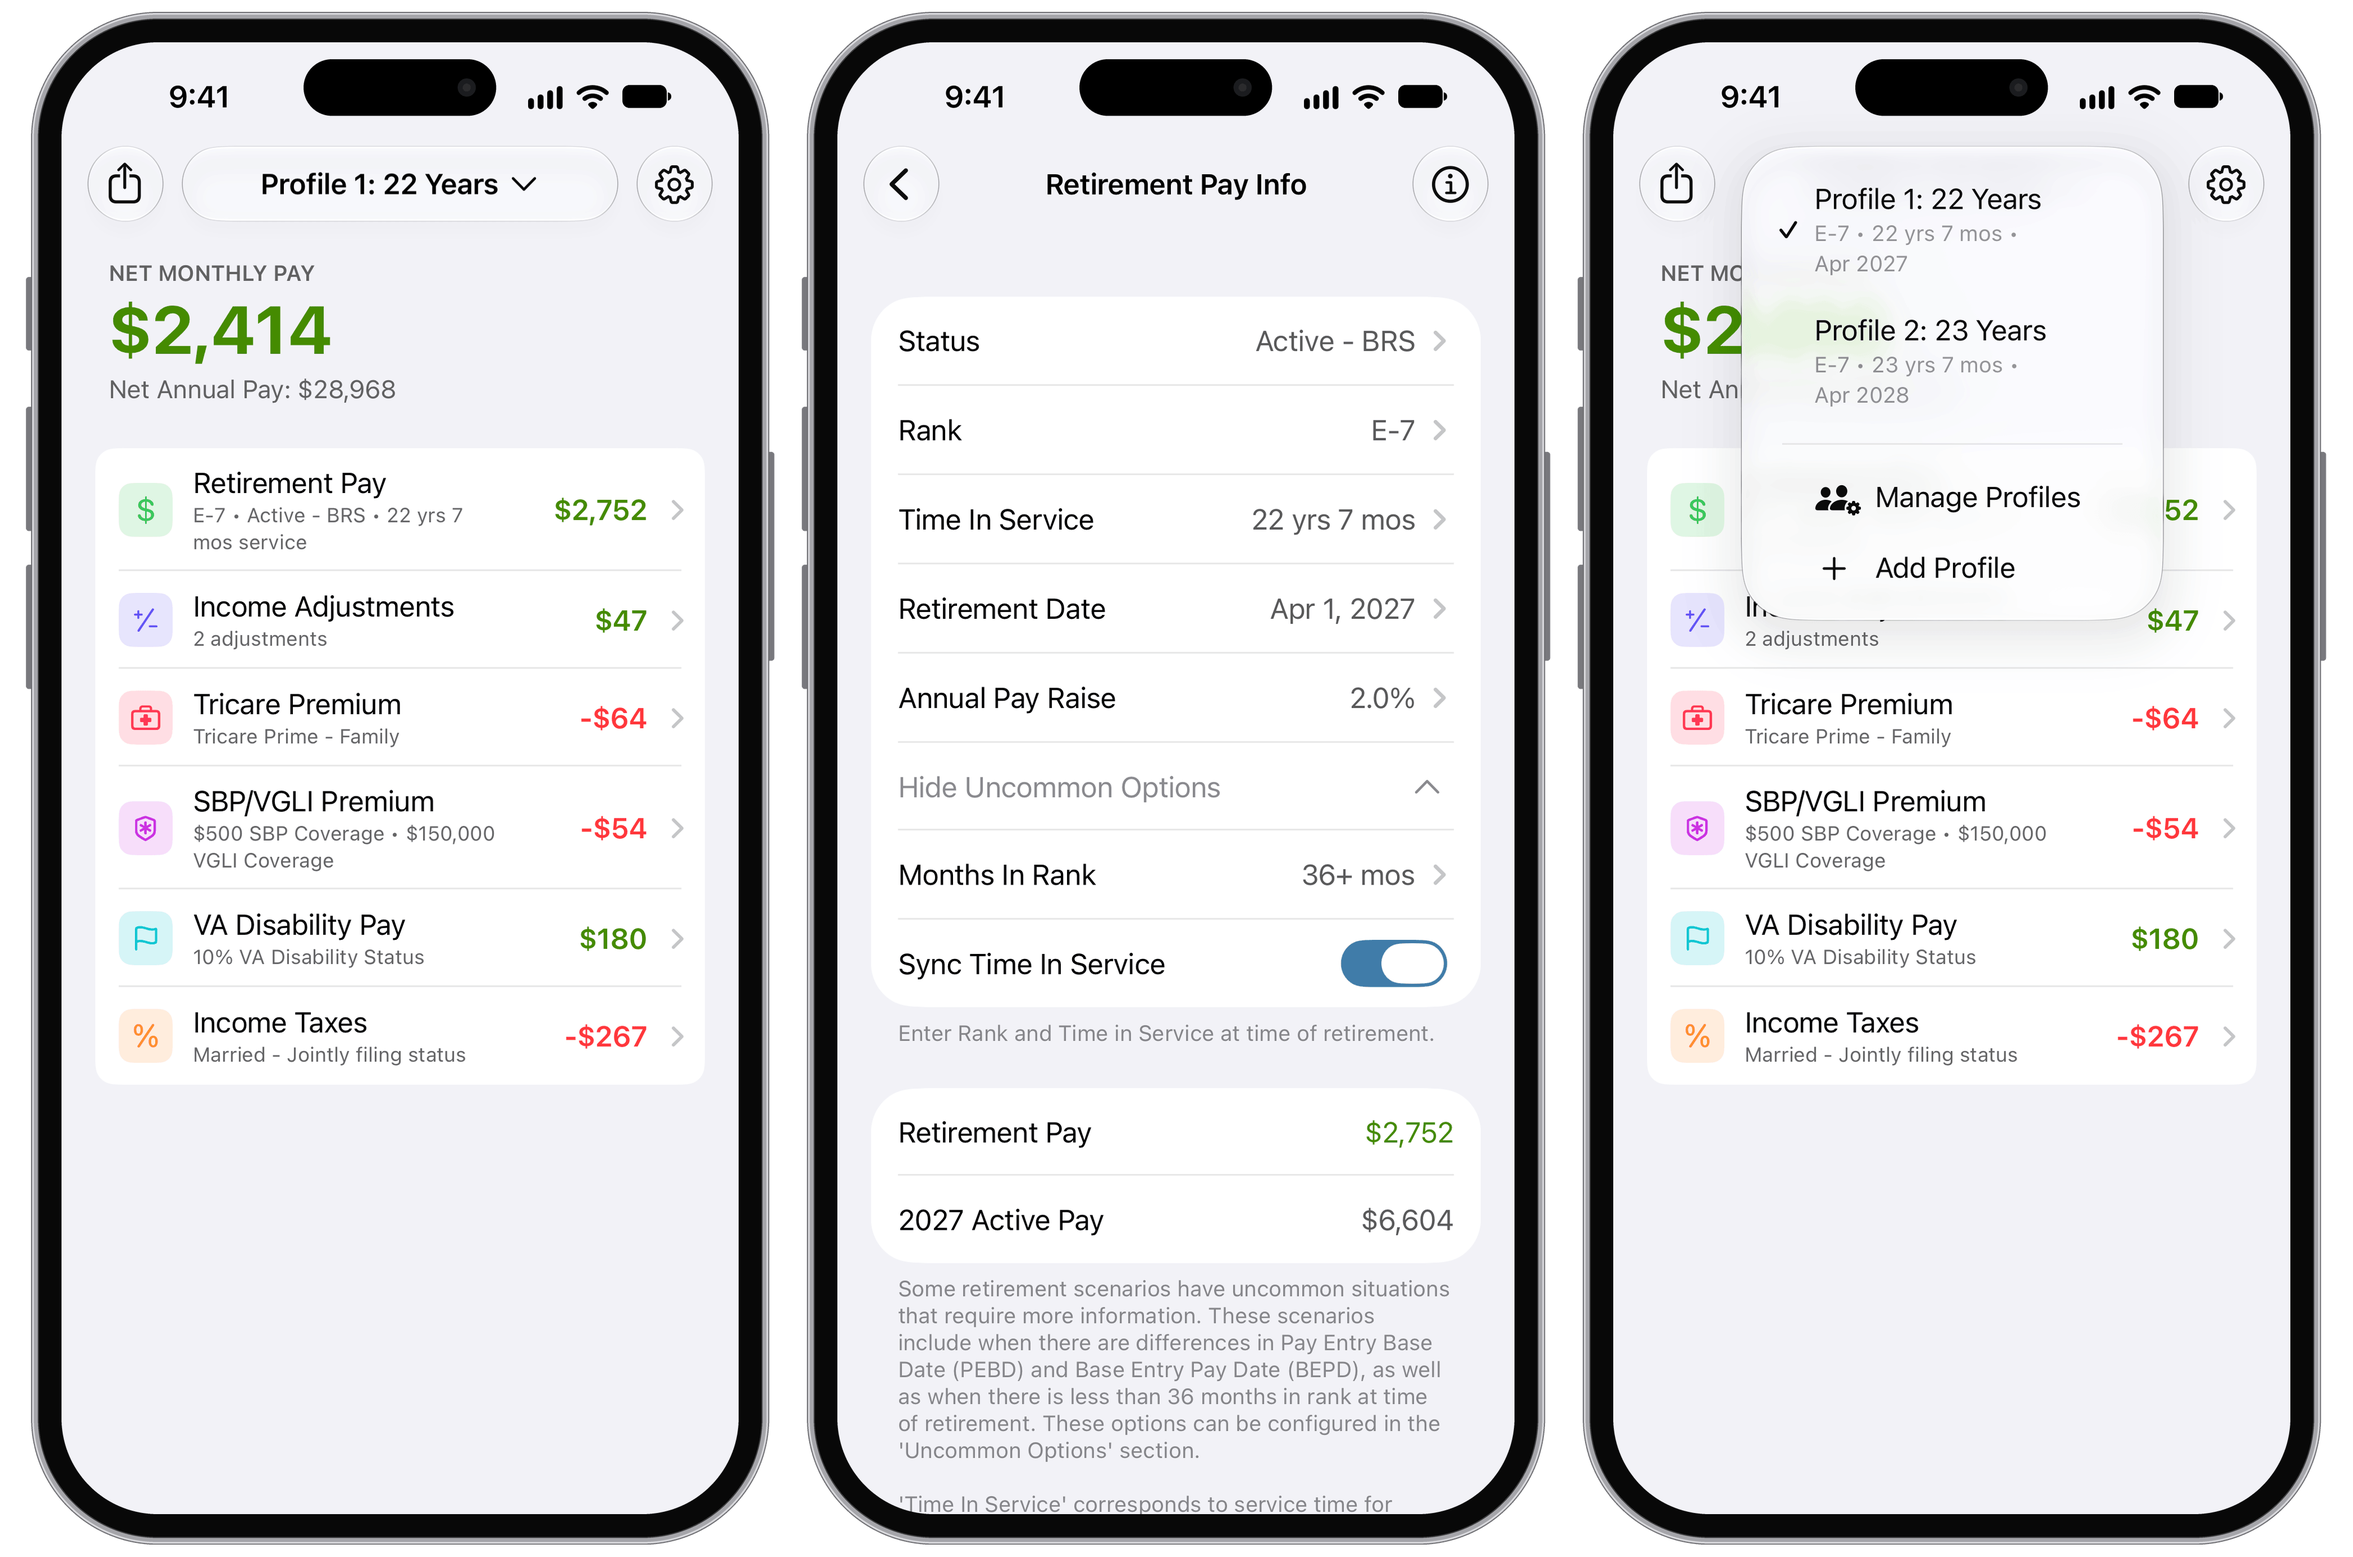
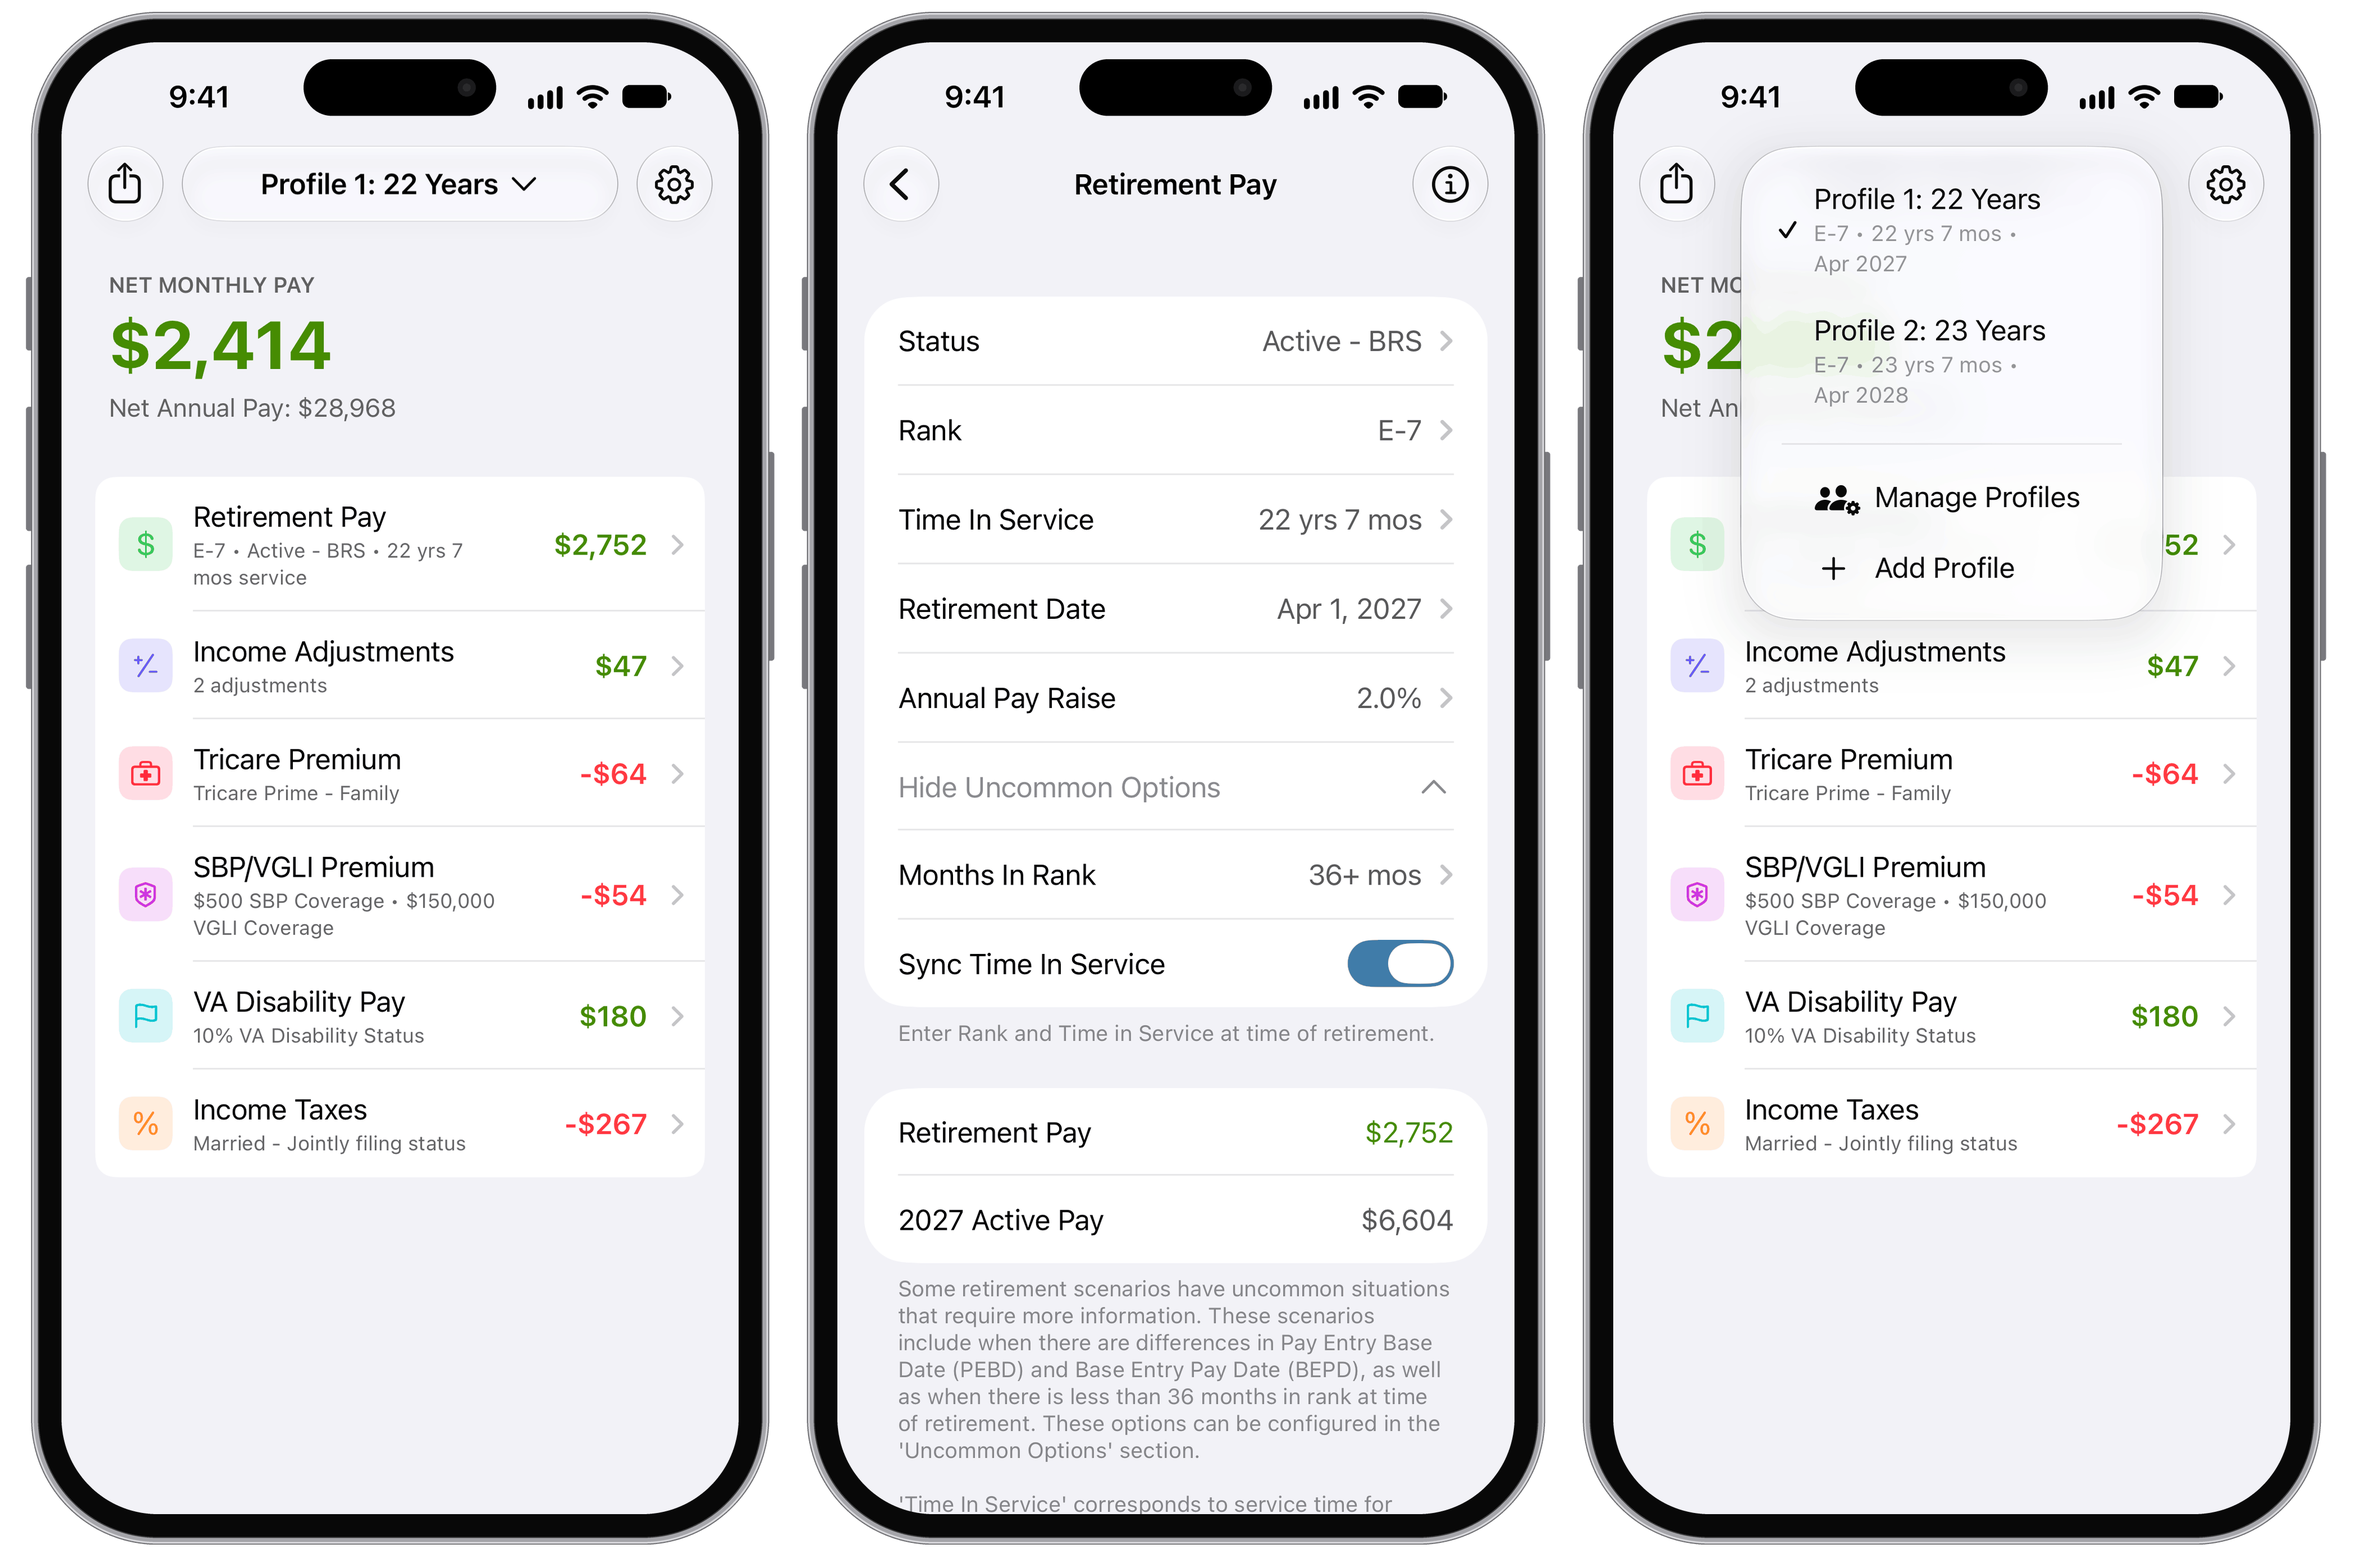
Add dark mode screenshots for dark mode site

diff --git a/css/main.css b/css/main.css
@@ -152,6 +152,7 @@ img { max-width: 100%; vertical-align: middle; }
 .app-features h4 { font-weight: 500; }
 
 .screen-shot-container { margin-top: 20px; }
+.screen-shot-container .screenshot-dark { display: none; }
 
 @media only screen and (max-width: 500px) {
   .app-header {
@@ -342,6 +343,8 @@ input:not([type=submit]), textarea, input[type=submit] {
   .app-summary { color: #ededed; }
   .app-header .app-name { color: #ededed; }
   .app-info { color: #d4d4d4; }
+  .screen-shot-container .screenshot-light { display: none; }
+  .screen-shot-container .screenshot-dark { display: inline; }
 
   a { color: #6ea8fe; }
   a:hover { color: #9ec5fe; }

diff --git a/military-retire-app.md b/military-retire-app.md
@@ -49,7 +49,10 @@ permalink: /military-retire-app/
 </div>
 
 <div class="screen-shot-container">
-    <a href="/assets/military_retire_screenshots.png" draggable="false">
-        <img src="/assets/military_retire_screenshots.png" alt="" draggable="false" />
+    <a class="screenshot-light" href="/assets/military_retire_screenshots.png" draggable="false">
+        <img src="/assets/military_retire_screenshots.png" alt="" draggable="false" loading="lazy" />
+    </a>
+    <a class="screenshot-dark" href="/assets/military_retire_screenshots_dark.png" draggable="false">
+        <img src="/assets/military_retire_screenshots_dark.png" alt="" draggable="false" loading="lazy" />
     </a>
 </div>

diff --git a/va-disability-pay-app.md b/va-disability-pay-app.md
@@ -26,7 +26,10 @@ permalink: /va-disability-pay-app/
 </div>
 
 <div class="screen-shot-container">
-    <a href="/assets/va_disability_screenshots.png" draggable="false">
-        <img src="/assets/va_disability_screenshots.png" alt="" draggable="false" />
+    <a class="screenshot-light" href="/assets/va_disability_screenshots.png" draggable="false">
+        <img src="/assets/va_disability_screenshots.png" alt="" draggable="false" loading="lazy" />
+    </a>
+    <a class="screenshot-dark" href="/assets/va_disability_screenshots_dark.png" draggable="false">
+        <img src="/assets/va_disability_screenshots_dark.png" alt="" draggable="false" loading="lazy" />
     </a>
 </div>
